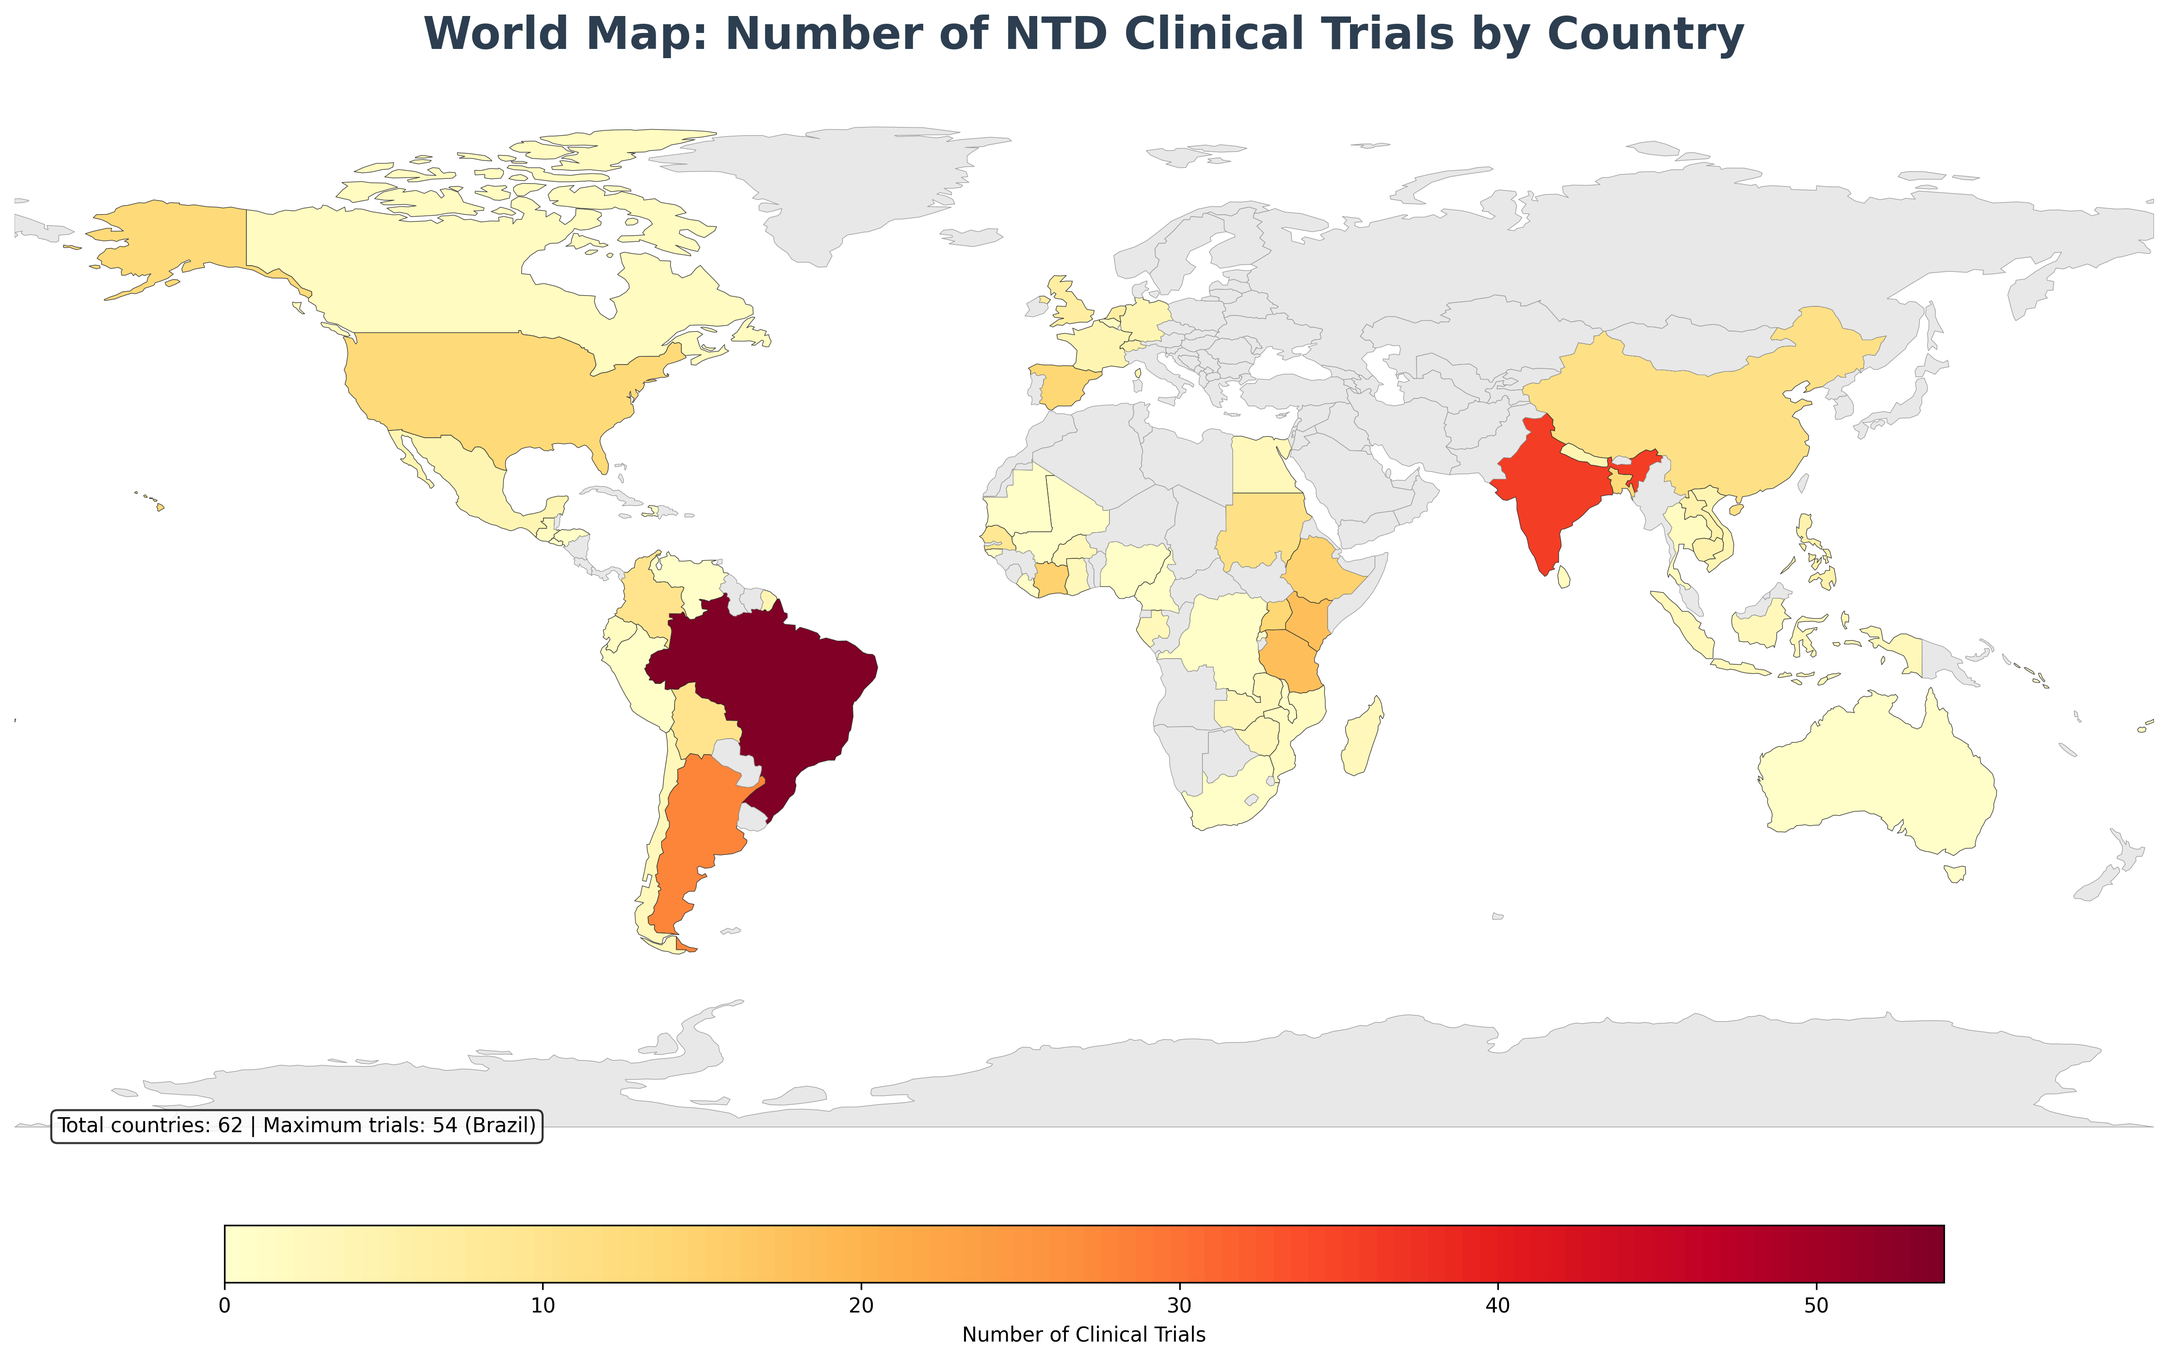
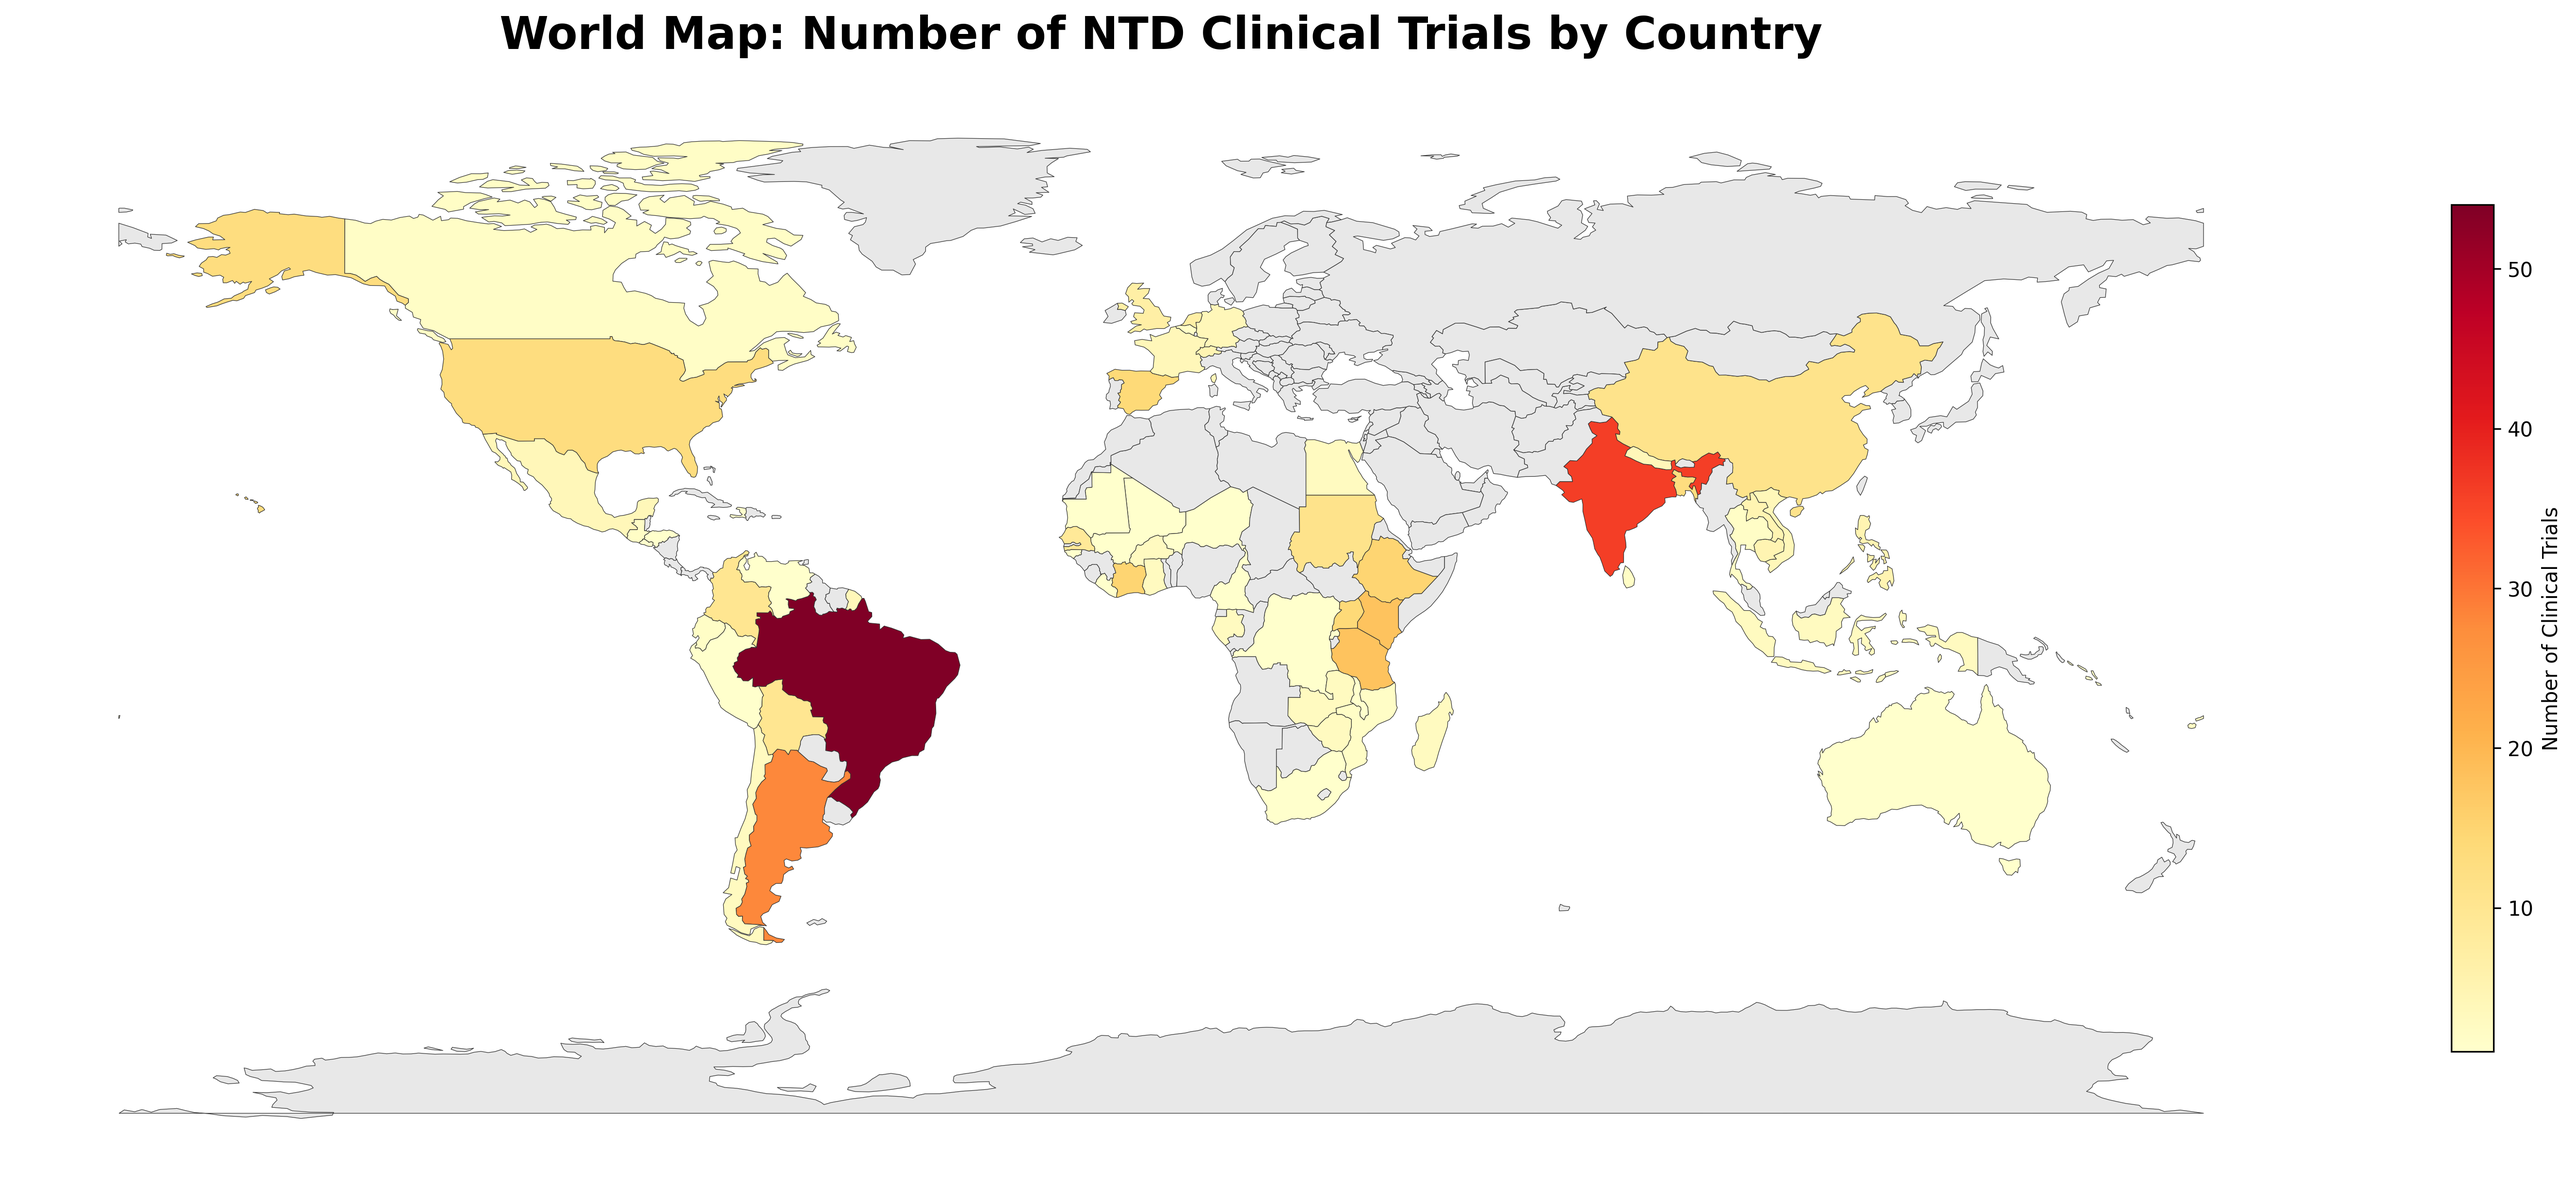
Simplify heatmap code using existing COUNTRY_CODE mapping
- Remove pycountry dependency and custom get_iso3 function
- Use existing COUNTRY_CODE from CleanData.py
- Simplify heatmap plotting code with minimal parameters
- Use built-in 'YlOrRd' colormap instead of custom colors
- Code reduced from 90+ lines to ~50 lines

diff --git a/visualization.py b/visualization.py
@@ -2,9 +2,7 @@ import pandas as pd
 import matplotlib.pyplot as plt
 import os
 import geopandas as gpd
-import pycountry
 from matplotlib.colors import LinearSegmentedColormap
-import numpy as np
 
 # 创建输出文件夹 Create output folder
 os.makedirs("CleanedDataPlt", exist_ok=True)
@@ -89,88 +87,46 @@ print("✓ Figure saved successfully!")
 print("\n生成世界地图热力图... Generating world map heatmap...")
 country_stats = pd.read_csv("CleanedData/country_statistics.csv", encoding="utf-8-sig")
 
-# 读取世界地图GeoJSON Load world map GeoJSON from local directory
+# 使用已有的国家代码映射 Use existing country code mapping
+COUNTRY_CODE = {
+    'BRA': 'Brazil','IND': 'India', 'ARG': 'Argentina','KEN': 'Kenya','TZA': 'Tanzania','ETH': 'Ethiopia','CIV': 'Côte d\'Ivoire',
+    'UGA': 'Uganda','ESP': 'Spain','USA': 'United States','BGD': 'Bangladesh','SDN': 'Sudan','CHN': 'China','BOL': 'Bolivia','COL': 'Colombia',
+    'SEN': 'Senegal','NLD': 'Netherlands','GBR': 'United Kingdom','LAO': 'Laos','CHE': 'Switzerland','PHL': 'Philippines','KHM': 'Cambodia','VNM': 'Vietnam',
+    'MEX': 'Mexico','NPL': 'Nepal','DEU': 'Germany','FRA': 'France','ZWE': 'Zimbabwe','BFA': 'Burkina Faso','MDG': 'Madagascar', 'IDN': 'Indonesia',
+    'ZMB': 'Zambia', 'EGY': 'Egypt', 'GHA': 'Ghana','GAB': 'Gabon', 'CHL': 'Chile', 'MOZ': 'Mozambique', 'THA': 'Thailand','CAN': 'Canada','ECU': 'Ecuador',
+    'TLS': 'Timor-Leste','FJI': 'Fiji','LKA': 'Sri Lanka','GTM': 'Guatemala','BEL': 'Belgium','GNB': 'Guinea-Bissau', 'MWI': 'Malawi','SLB': 'Solomon Islands','RWA': 'Rwanda',
+    'HTI': 'Haiti','NER': 'Niger','PER': 'Peru','VEN': 'Venezuela','LBR': 'Liberia','AUS': 'Australia','COD': 'DR Congo','HND': 'Honduras',
+    'CMR': 'Cameroon','ZAF': 'South Africa','MLI': 'Mali','SLV': 'El Salvador','MRT': 'Mauritania'
+}
+
+# 反转映射：国家名 -> ISO代码 Reverse mapping: country name -> ISO code
+name_to_code = {v: k for k, v in COUNTRY_CODE.items()}
+country_stats['iso_alpha'] = country_stats['country'].map(name_to_code)
+
+# 读取世界地图 Load world map
 world = gpd.read_file('CleanedData/geo_data/world-countries.json')
 
-# 国家名称到ISO-3代码的转换 Convert country names to ISO-3 codes
-def get_iso3(country_name):
-    """Get ISO-3 country code from country name"""
-    # 手动映射特殊情况 Manual mapping for special cases
-    special_cases = {
-        'United States': 'USA',
-        'United Kingdom': 'GBR',
-        'DR Congo': 'COD',
-        'Côte d\'Ivoire': 'CIV',
-        'Timor-Leste': 'TLS',
-        'Bolivia': 'BOL',
-        'Venezuela': 'VEN',
-        'Tanzania': 'TZA',
-        'Laos': 'LAO',
-        'Vietnam': 'VNM',
-        'South Africa': 'ZAF'
-    }
-
-    if country_name in special_cases:
-        return special_cases[country_name]
-
-    try:
-        return pycountry.countries.search_fuzzy(country_name)[0].alpha_3
-    except:
-        return None
-
-# 添加ISO-3代码 Add ISO-3 codes
-country_stats['iso_alpha'] = country_stats['country'].apply(get_iso3)
-
-# 合并数据 Merge data with world map
+# 合并数据 Merge data
 world_merged = world.merge(country_stats, left_on='id', right_on='iso_alpha', how='left')
 
 # 创建图形 Create figure
 fig, ax = plt.subplots(1, 1, figsize=(20, 10))
 
-# 创建颜色映射 Create colormap
-colors = ['#ffffcc', '#ffeda0', '#fed976', '#feb24c', '#fd8d3c', '#fc4e2a', '#e31a1c', '#bd0026', '#800026']
-n_bins = 100
-cmap = LinearSegmentedColormap.from_list('YlOrRd', colors, N=n_bins)
-
 # 绘制热力图 Plot heatmap
 world_merged.plot(
-    column='count',
-    ax=ax,
-    legend=True,
-    cmap=cmap,
-    edgecolor='#333333',
-    linewidth=0.3,
-    missing_kwds={
-        'color': '#e8e8e8',
-        'edgecolor': '#999999',
-        'linewidth': 0.3
-    },
-    legend_kwds={
-        'label': 'Number of Clinical Trials',
-        'orientation': 'horizontal',
-        'shrink': 0.6,
-        'aspect': 30,
-        'pad': 0.05
-    },
-    vmin=0,
-    vmax=country_stats['count'].max()
+    column='count', ax=ax, legend=True, cmap='YlOrRd',
+    edgecolor='#333333', linewidth=0.3,
+    missing_kwds={'color': '#e8e8e8'},
+    legend_kwds={'label': 'Number of Clinical Trials', 'shrink': 0.6}
 )
 
-# 设置标题和样式 Set title and style
 ax.set_title('World Map: Number of NTD Clinical Trials by Country',
-             fontsize=22, fontweight='bold', pad=20, color='#2c3e50')
-ax.set_xlim([-180, 180])
-ax.set_ylim([-90, 90])
+             fontsize=22, fontweight='bold', pad=20)
 ax.axis('off')
 
-# 添加注释 Add note
-ax.text(0.02, 0.02, f'Total countries: {len(country_stats)} | Maximum trials: {country_stats["count"].max()} (Brazil)',
-        transform=ax.transAxes, fontsize=10, verticalalignment='bottom',
-        bbox=dict(boxstyle='round', facecolor='white', alpha=0.8))
-
-# 保存为PNG Save as PNG
+# 保存PNG Save PNG
 plt.tight_layout()
-plt.savefig('CleanedDataPlt/world_heatmap.png', dpi=300, bbox_inches='tight', facecolor='white')
+plt.savefig('CleanedDataPlt/world_heatmap.png', dpi=300, bbox_inches='tight')
 plt.close()
 
 print("✓ World heatmap saved as CleanedDataPlt/world_heatmap.png")
